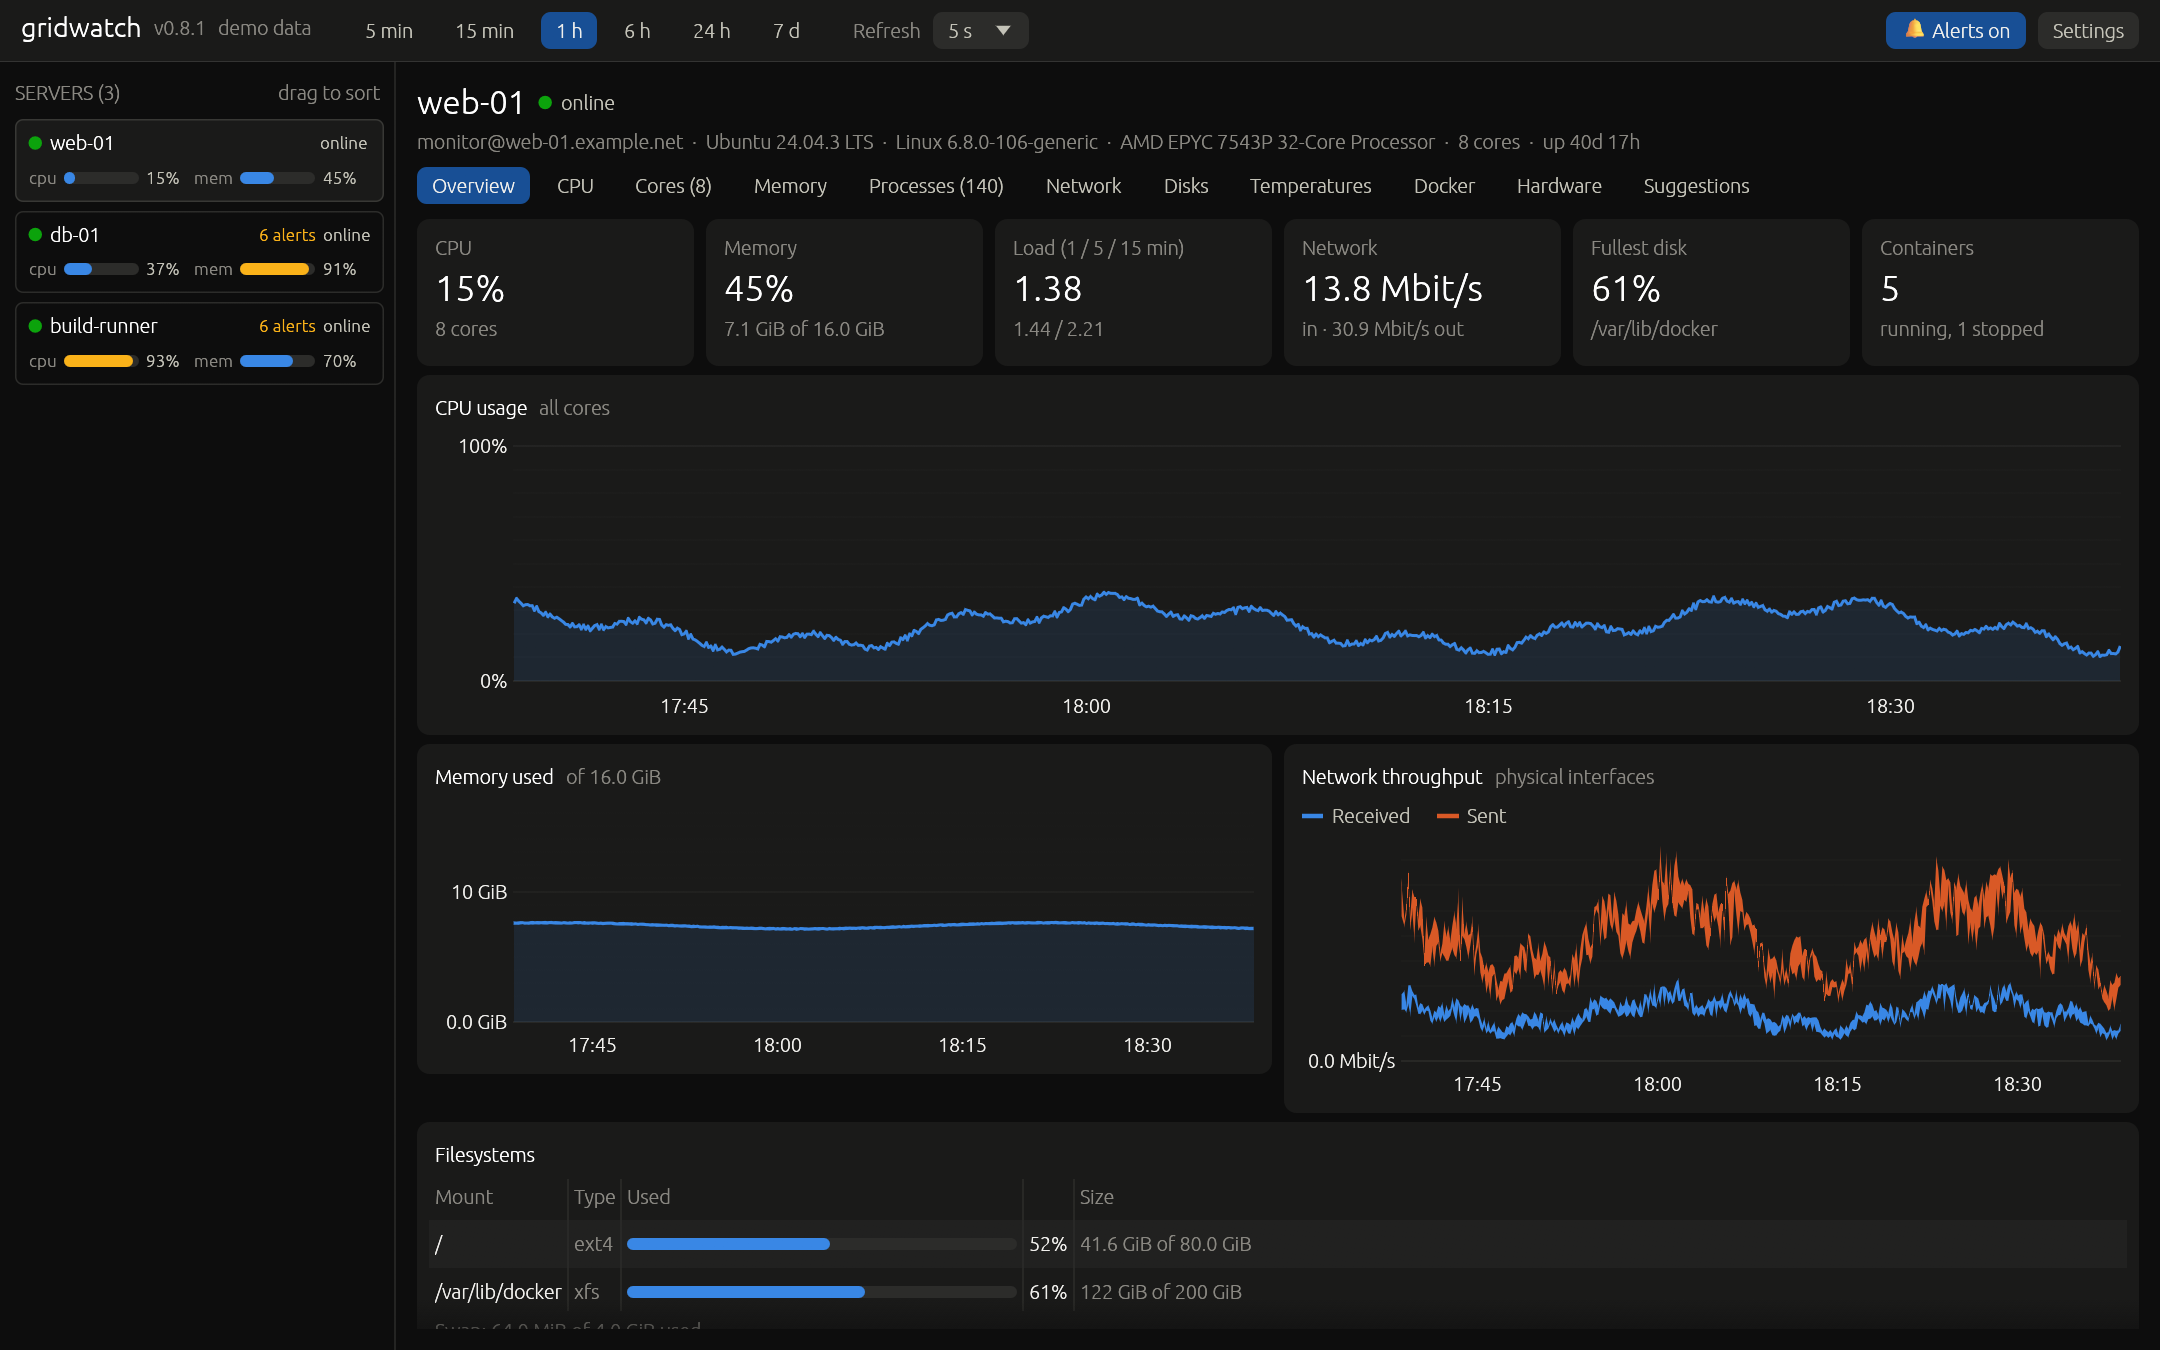
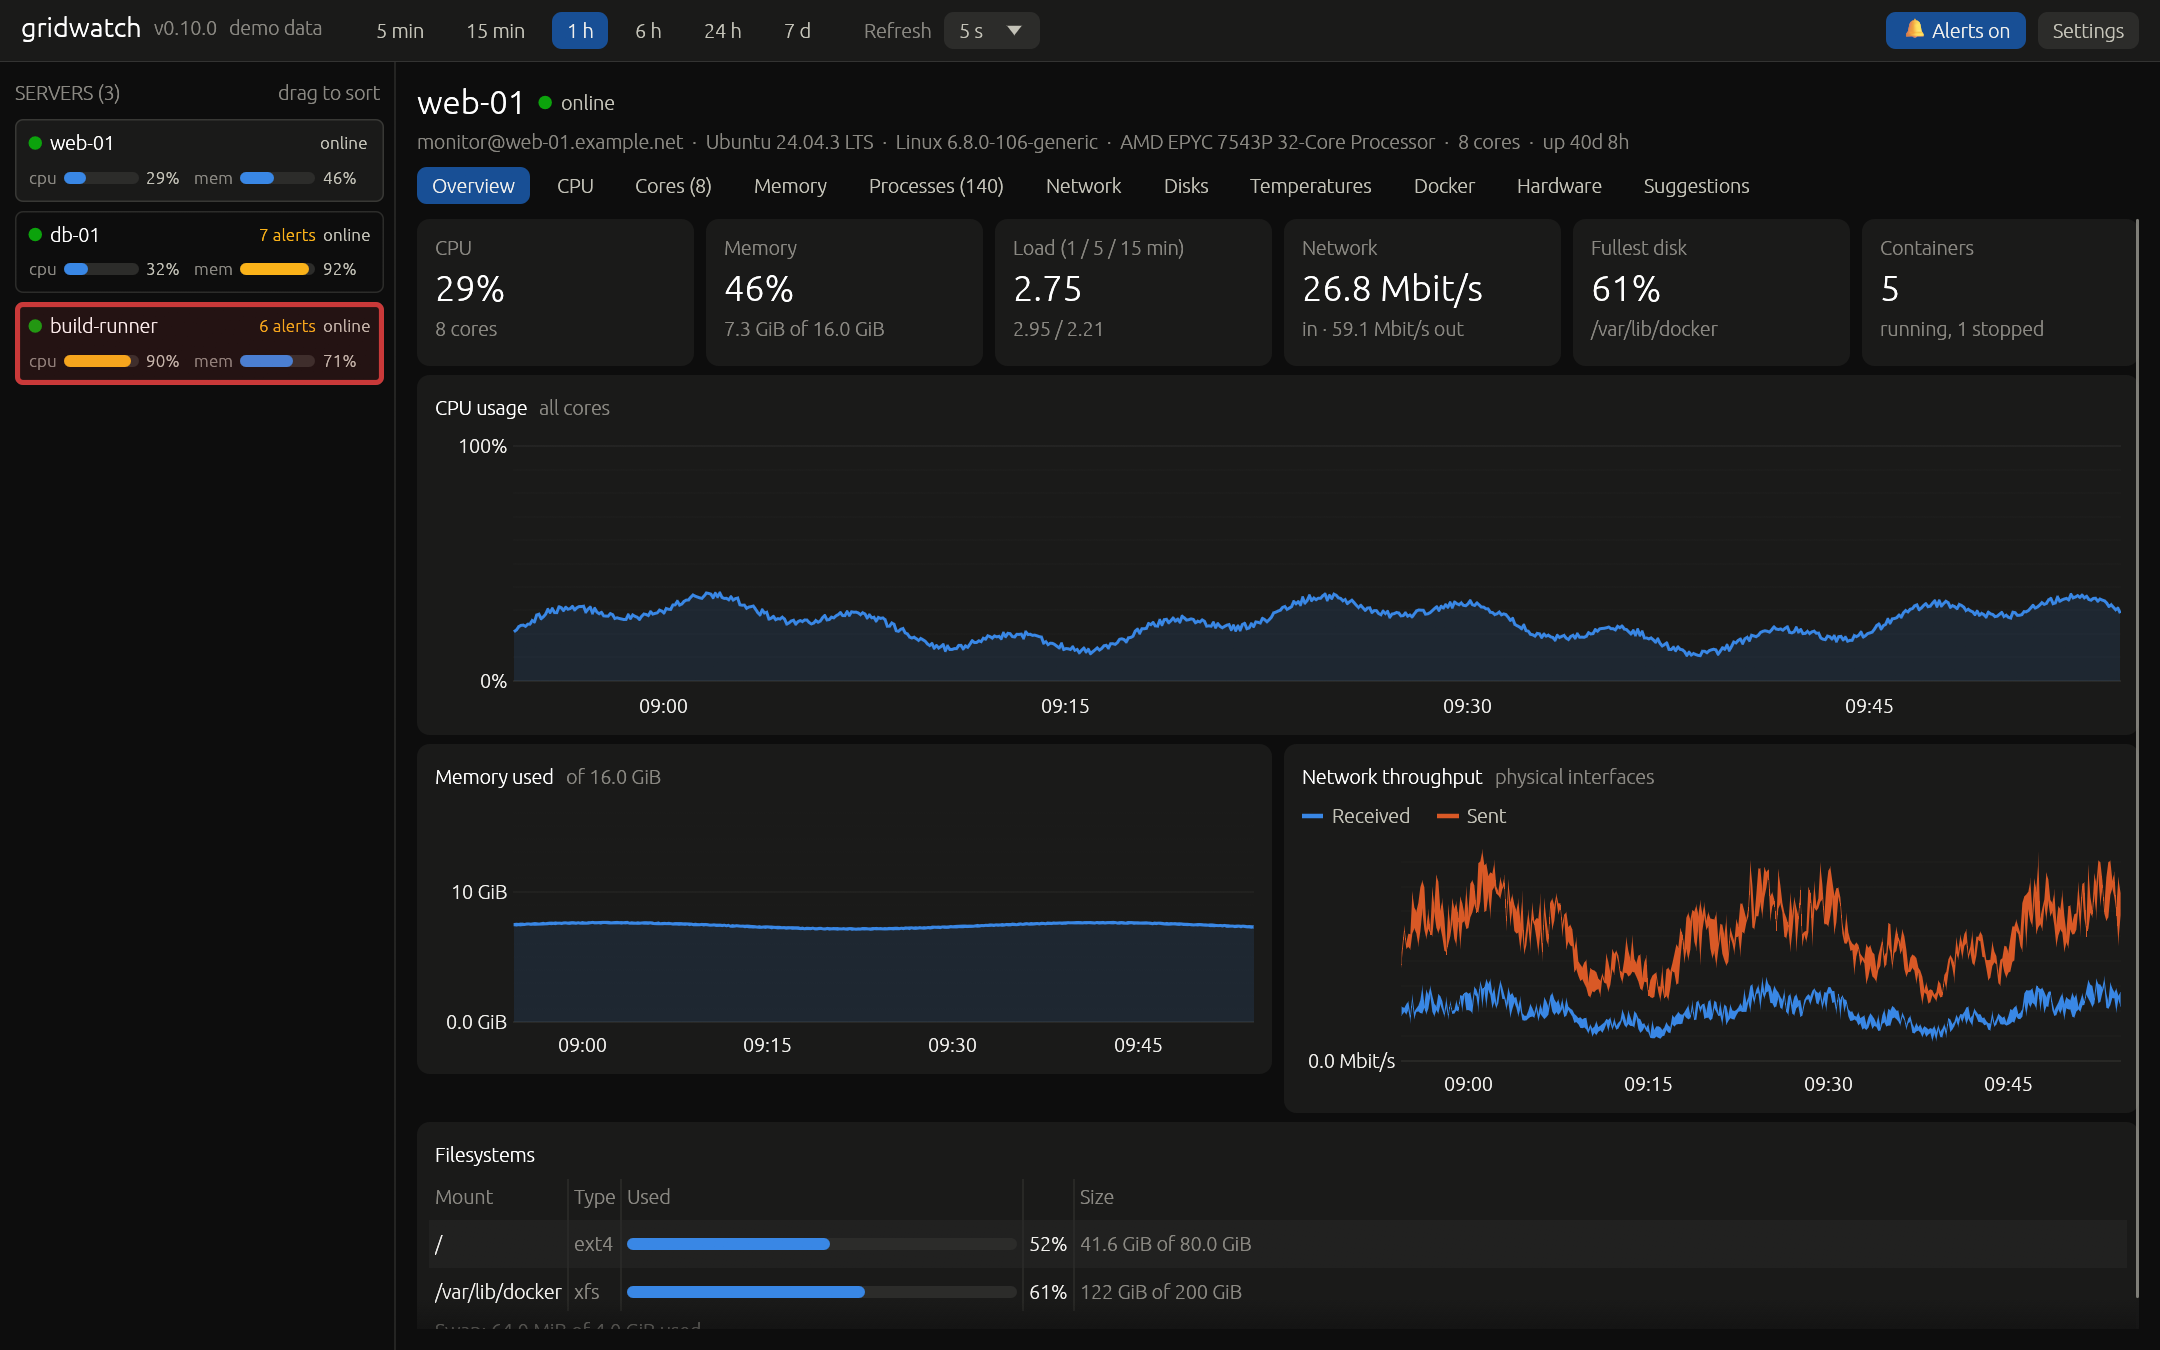
Mark a server with a fading red frame when a critical problem arrives (0.10.0)
The entry in the server list gets a red frame and a light red tint
that fade out over 45 seconds. It does not depend on the alert
settings.

diff --git a/src/notify.rs b/src/notify.rs
@@ -88,6 +88,8 @@ pub struct Notifier {
     settings: Mutex<Notifications>,
     trackers: Mutex<HashMap<String, Tracker>>,
     last_sound: Mutex<Option<Instant>>,
+    /// When each server last got a new critical problem, for the red frame in the server list.
+    critical_hits: Mutex<HashMap<String, Instant>>,
     jobs: mpsc::Sender<Job>,
 }
 
@@ -117,6 +119,7 @@ impl Notifier {
             settings: Mutex::new(settings),
             trackers: Mutex::default(),
             last_sound: Mutex::default(),
+            critical_hits: Mutex::default(),
             jobs,
         }
     }
@@ -125,8 +128,14 @@ impl Notifier {
         *self.settings.lock().unwrap() = settings;
     }
 
+    /// How long ago a critical problem newly appeared on this server, if one ever did.
+    pub fn critical_hit(&self, server_id: &str) -> Option<Duration> {
+        self.critical_hits.lock().unwrap().get(server_id).map(Instant::elapsed)
+    }
+
     pub fn forget(&self, server_id: &str) {
         self.trackers.lock().unwrap().remove(server_id);
+        self.critical_hits.lock().unwrap().remove(server_id);
     }
 
     /// Play the alert sound and show a notification even while alerts are switched off (settings dialog).
@@ -168,11 +177,12 @@ impl Notifier {
         let mut trackers = self.trackers.lock().unwrap();
         let tracker = trackers.entry(server_id.to_string()).or_default();
         // Tracking continues while muted, so switching alerts back on is not followed by old news.
-        let new: Vec<Alert> = tracker
-            .update(&current, now)
-            .into_iter()
-            .filter(|a| wanted(a))
-            .collect();
+        let fresh = tracker.update(&current, now);
+        // The server list marks this whatever the alert settings say.
+        if fresh.iter().any(|a| a.severity == Severity::Critical) {
+            self.critical_hits.lock().unwrap().insert(server_id.to_string(), now);
+        }
+        let new: Vec<Alert> = fresh.into_iter().filter(|a| wanted(a)).collect();
         if !settings.enabled || open.is_empty() {
             return;
         }
@@ -474,6 +484,31 @@ mod tests {
         for kind in [Tone::Bell, Tone::Sonar] {
             play(kind, 0.4).unwrap();
         }
+    }
+
+    #[test]
+    fn remembers_when_a_critical_problem_arrived() {
+        // Alerts are off: the mark for the server list must not depend on them.
+        let notifier = Notifier::new(Notifications {
+            enabled: false,
+            ..Default::default()
+        });
+        let mut state = ServerState::default();
+        notifier.check("a", "server a", &state);
+        assert!(notifier.critical_hit("a").is_none());
+
+        state.conn = ConnState::Error("timeout".into());
+        notifier.check("a", "server a", &state);
+        let first = *notifier.critical_hits.lock().unwrap().get("a").unwrap();
+        // The same problem seen again is not a new hit.
+        std::thread::sleep(Duration::from_millis(15));
+        notifier.check("a", "server a", &state);
+        assert_eq!(*notifier.critical_hits.lock().unwrap().get("a").unwrap(), first);
+        assert!(notifier.critical_hit("a").unwrap() >= Duration::from_millis(15));
+        assert!(notifier.critical_hit("b").is_none());
+
+        notifier.forget("a");
+        assert!(notifier.critical_hit("a").is_none());
     }
 
     #[test]

diff --git a/src/app.rs b/src/app.rs
@@ -29,6 +29,8 @@ const SETTINGS_SHOT: &str = "settings.png";
 const HOMEPAGE: &str = "https://github.com/voidNK/gridwatch";
 const DONATE_PAYPAL: &str = "https://paypal.me/lizo";
 const DONATE_KOFI: &str = "https://ko-fi.com/A0A05OS1A";
+/// How long the red frame around a server takes to fade after a critical problem arrived.
+const CRITICAL_FLASH: Duration = Duration::from_secs(45);
 const INTERVALS: [u64; 5] = [2, 5, 10, 30, 60];
 const RETENTION_DAYS: [u32; 5] = [1, 7, 14, 30, 90];
 /// Minutes between reminders about problems that stay open; 0 = never.
@@ -667,6 +669,7 @@ Click to switch on or off.",
         ui.add_space(2.0);
         let mut clicked = None;
         let mut dropped = None;
+        let mut flashing = false;
         ScrollArea::vertical().auto_shrink([false, false]).show(ui, |ui| {
             let mut cards = Vec::new();
             for (i, server) in self.servers.iter().enumerate() {
@@ -728,6 +731,21 @@ Click to switch on or off.",
                     .interact(Sense::click_and_drag())
                     .on_hover_text(server.cfg.address());
                 cards.push(response.rect);
+                // A critical problem that just arrived: a red frame that slowly fades away.
+                let hit = self.env.notifier.critical_hit(&server.cfg.id);
+                if let Some(age) = hit.filter(|age| *age < CRITICAL_FLASH) {
+                    let strength = 1.0 - age.as_secs_f32() / CRITICAL_FLASH.as_secs_f32();
+                    let radius = CornerRadius::same(5);
+                    ui.painter()
+                        .rect_filled(response.rect, radius, w::CRITICAL.gamma_multiply(0.12 * strength));
+                    ui.painter().rect_stroke(
+                        response.rect,
+                        radius,
+                        egui::Stroke::new(1.0 + 2.5 * strength, w::CRITICAL.gamma_multiply(strength)),
+                        egui::StrokeKind::Inside,
+                    );
+                    flashing = true;
+                }
                 if response.clicked() {
                     clicked = Some(i);
                 }
@@ -755,6 +773,10 @@ Click to switch on or off.",
         });
         if !ui.input(|i| i.pointer.any_down()) {
             self.dragging = None;
+        }
+        if flashing {
+            // Keep drawing while a frame fades.
+            ui.ctx().request_repaint_after(Duration::from_millis(50));
         }
         if let Some(i) = clicked {
             self.selected = i;

diff --git a/README.md b/README.md
@@ -31,6 +31,7 @@ reads `/proc` (or `sysctl` and `vm_stat` on a Mac), `df`, `ps` and the docker CL
 - **Suggestions** for saturated CPU, load above core count, I/O wait, CPU steal, memory and swap
   pressure, full or saturated disks, hot CPUs, disks and GPUs, zombie processes, pending reboots,
   containers that restart, fail, are unhealthy, run without or close to their memory limit, and more.
+- A **red frame** around a server in the list when a critical problem newly arrives, fading out slowly.
 - **Tray icon** on Windows and macOS - shows the worst state of all servers; closing the window
   keeps gridwatch running there, so alerts keep coming.
 - **Alerts** - a sound and a desktop notification (Windows, macOS, Linux) when a server gets into

diff --git a/CHANGELOG.md b/CHANGELOG.md
@@ -4,6 +4,11 @@ The version is raised with every change that reaches users: the last number for 
 the middle number for a new feature. It is set in `Cargo.toml` and shown in the top bar
 and by `gridwatch --version`. A tag `v<version>` on GitHub builds and publishes the release.
 
+## 0.10.0
+
+- When a critical problem newly hits a server, its entry in the server list gets a red frame that
+  fades out over 45 seconds, so it catches the eye even when alerts are muted.
+
 ## 0.9.3
 
 - Fixed: on macOS the keychain asked for permission once per server at every start (and again
